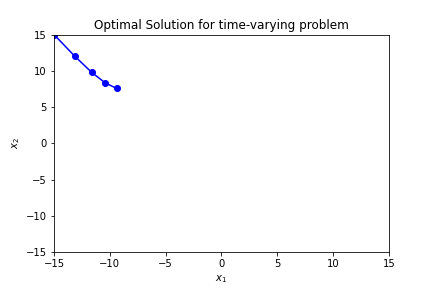
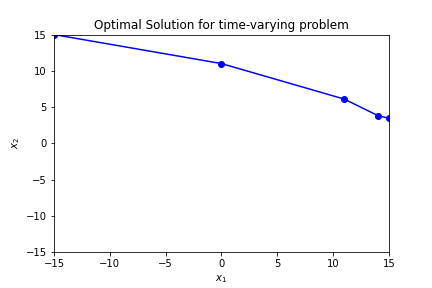
hw1 q3 fixed

diff --git a/hw_1/problem_3/ftocp.py b/hw_1/problem_3/ftocp.py
@@ -107,7 +107,7 @@ class FTOCP(object):
 			print(G_in)
 			print("E_in: ")
 			print(E_in)
-			print("w_in: ", w_in)			
+			print("w_in: ", w_in)
 
 		self.G_in = sparse.csc_matrix(G_in)
 		self.E_in = E_in
@@ -131,38 +131,29 @@ class FTOCP(object):
 		self.q = q
 		self.H = sparse.csc_matrix(2 * H)  #  Need to multiply by two because CVX considers 1/2 in front of quadratic cost
 
-	def buildEqConstr(self):  
-		G_eq_all = [None] * self.N
-		E_eq_all = [None] * self.N
-		C_eq_all = [None] * self.N
+	def buildEqConstr(self):          
+		Gu   = linalg.block_diag(*([-self.B[0]]*self.N))
+		Gx1  = linalg.block_diag(*([np.eye(self.n)]*self.N))
+		Gx2  = linalg.block_diag(*[-a for a in self.A[:-1]])
+		Gx2  = np.vstack((np.zeros((self.n,self.n*(self.N-1))),Gx2))
+		Gx2  = np.hstack((Gx2,np.zeros((self.n*self.N,self.n))))
+		G_eq = np.hstack((Gx2+Gx1,Gu))
+  
+		E_eq = self.A[0].T
+		E_eq = np.hstack((E_eq,np.zeros((self.n,self.N*self.n-self.n)))).T
         
-		for i, (a,b,c) in enumerate(zip(self.A,self.B,self.C)): #not for loop but different stack
-			Gu   = linalg.block_diag(*([-b]*self.N))
-			Gx1  = linalg.block_diag(*([np.eye(self.n)]*self.N))
-			Gx2  = linalg.block_diag(*([-a]*(self.N-1)))
-			Gx2  = np.vstack((np.zeros((self.n,self.n*(self.N-1))),Gx2))
-			Gx2  = np.hstack((Gx2,np.zeros((self.n*self.N,self.n))))
-			G_eq = np.hstack((Gx2+Gx1,Gu))
-			G_eq_all[i] = G_eq
-                            
-			E_eq = a.T
-			E_eq = np.hstack((E_eq,np.zeros((self.n,self.N*self.n-self.n)))).T
-			E_eq_all[i] = E_eq
-        
-			C_eq = c.T
-			C_eq = np.hstack((C_eq,np.zeros((self.N*self.n-self.n))))
-			C_eq_all[i] = C_eq
+		C_eq = np.concatenate(self.C).T
 
-			if self.printLevel >= 2:
-				print("G_eq: ")
-				print(G_eq)
-				print("E_eq: ")
-				print(E_eq)
-				print("C_eq: ", C_eq)
+		if self.printLevel >= 2:
+			print("G_eq: ")
+			print(G_eq)
+			print("E_eq: ")
+			print(E_eq)
+			print("C_eq: ", C_eq)
 
-			self.C_eq = C_eq
-			self.G_eq = sparse.csc_matrix(G_eq)
-			self.E_eq = E_eq
+		self.C_eq = C_eq
+		self.G_eq = sparse.csc_matrix(G_eq)
+		self.E_eq = E_eq
 
 	def osqp_solve_qp(self, P, q, G= None, h=None, A=None, b=None, initvals=None):
 		""" 

diff --git a/hw_1/problem_3/main.py b/hw_1/problem_3/main.py
@@ -59,5 +59,3 @@ plt.xlim(-15,15)
 plt.ylim(-15,15)
 plt.savefig("problem_3.png")
 plt.show()
-
-
